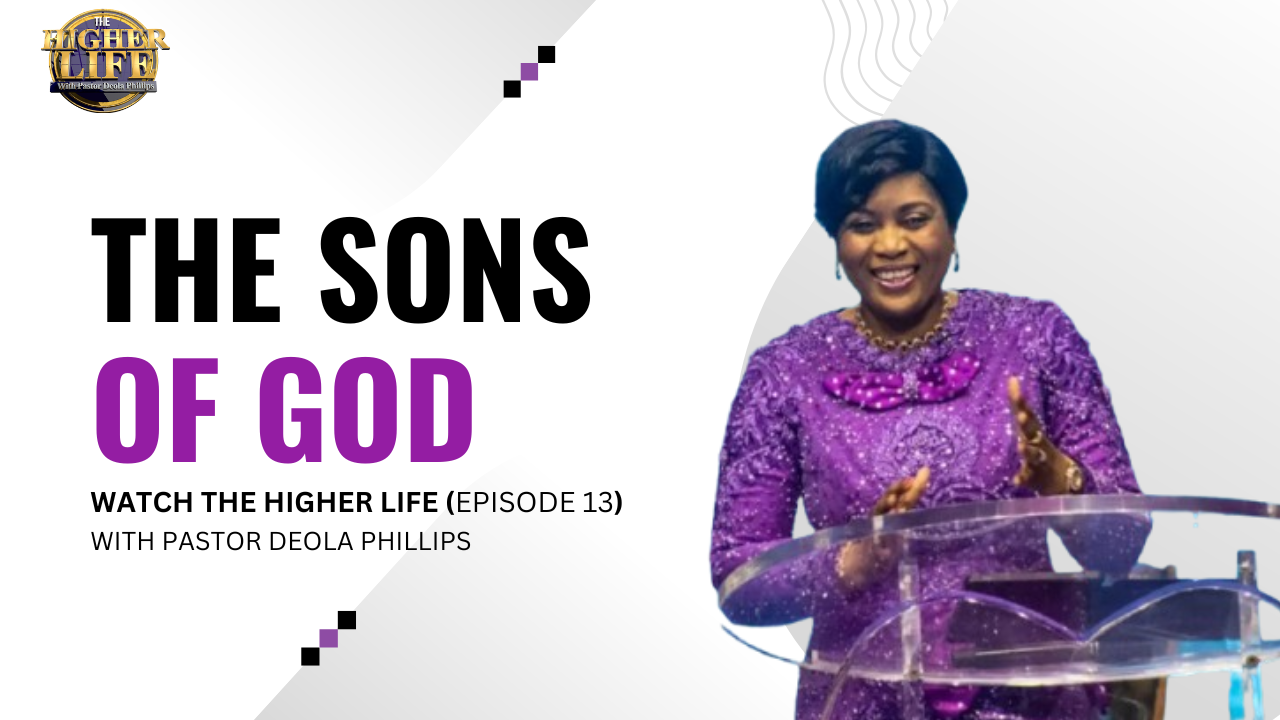
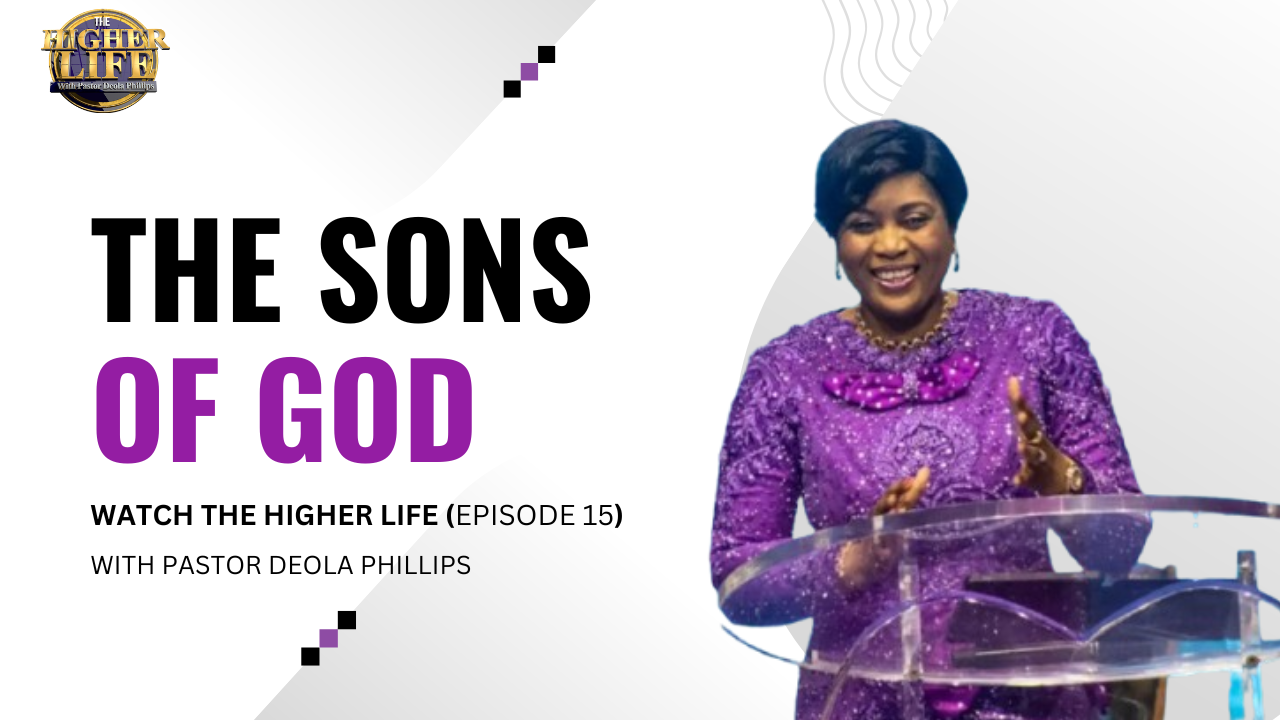
update thehigher life episode

Changed region(s): [[0.0625, 0.6722, 0.5, 0.7944]]

diff --git a/resources/views/welcome.blade.php b/resources/views/welcome.blade.php
@@ -208,7 +208,7 @@
                                 class="w-full h-full object-cover"
                                 poster="/images/sons.png"
                                 controls>
-                                <source src="https://drive.google.com/file/d/16WMuC-W4Qc2ZU3RWukys1EzIhOPZ-zY5/view" type="application/x-mpegURL">
+                                <source src="https://s3.eu-west-2.amazonaws.com/lodams-videoshare/videos/hlife015_601699fe3ccc7b0007cbc451.mp4" type="application/x-mpegURL">
                             </video>
                         </div>
 
@@ -217,7 +217,7 @@
                             <div class="flex justify-between items-center mb-2">
                                 <span class="text-blue-600 font-bold text-xs uppercase tracking-widest">Now Streaming</span>
                             </div>
-                            <h3 class="text-xl font-bold text-slate-900">The Higher Life — Episode 13</h3>
+                            <h3 class="text-xl font-bold text-slate-900">The Higher Life — Episode 15</h3>
                         </div>
                     </div>
 
